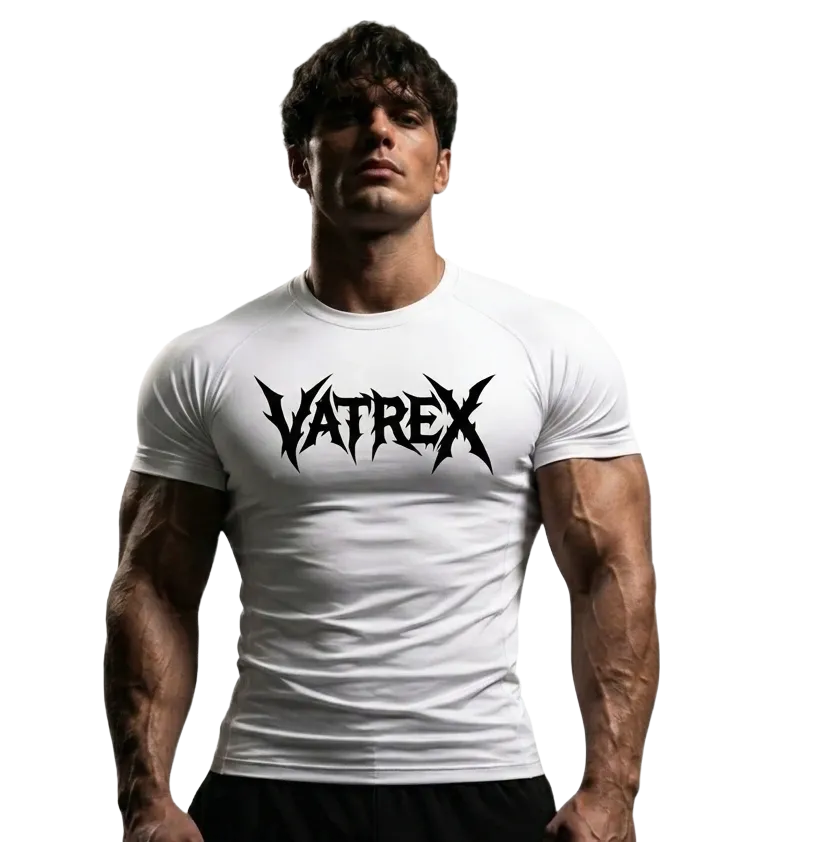
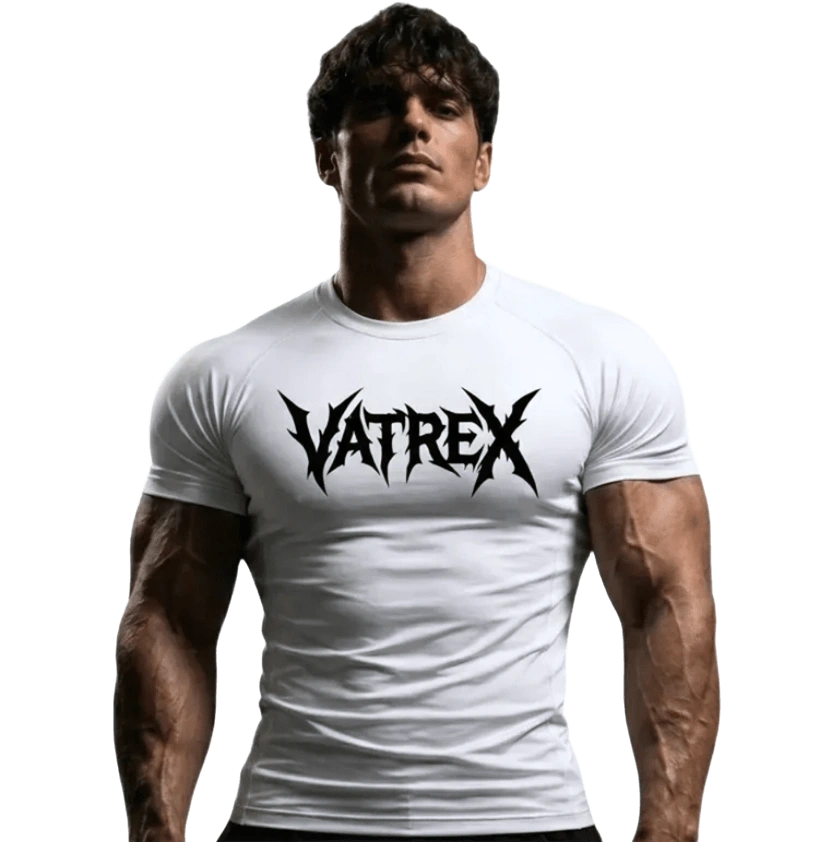
add

diff --git a/css/style.css b/css/style.css
@@ -641,10 +641,10 @@ object-position:center;
     }
 
     .product1 img {
-        width: 80vw;
+        width: 76vw;
         height: 76vw;
         margin-top:-5vw;
-        padding-left:9vw;
+        padding-left:0vw;
     }
 
     .product2 img {
